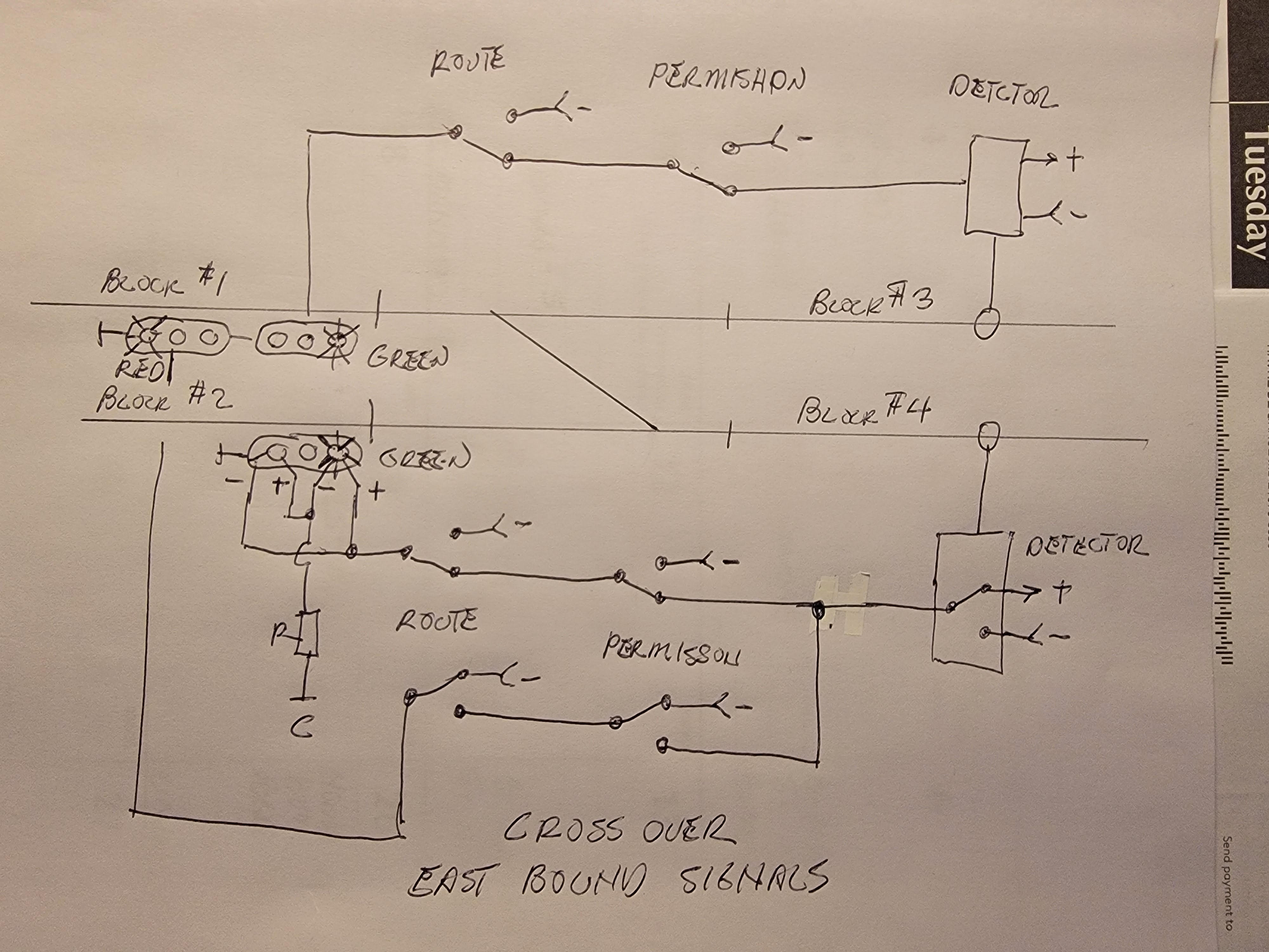
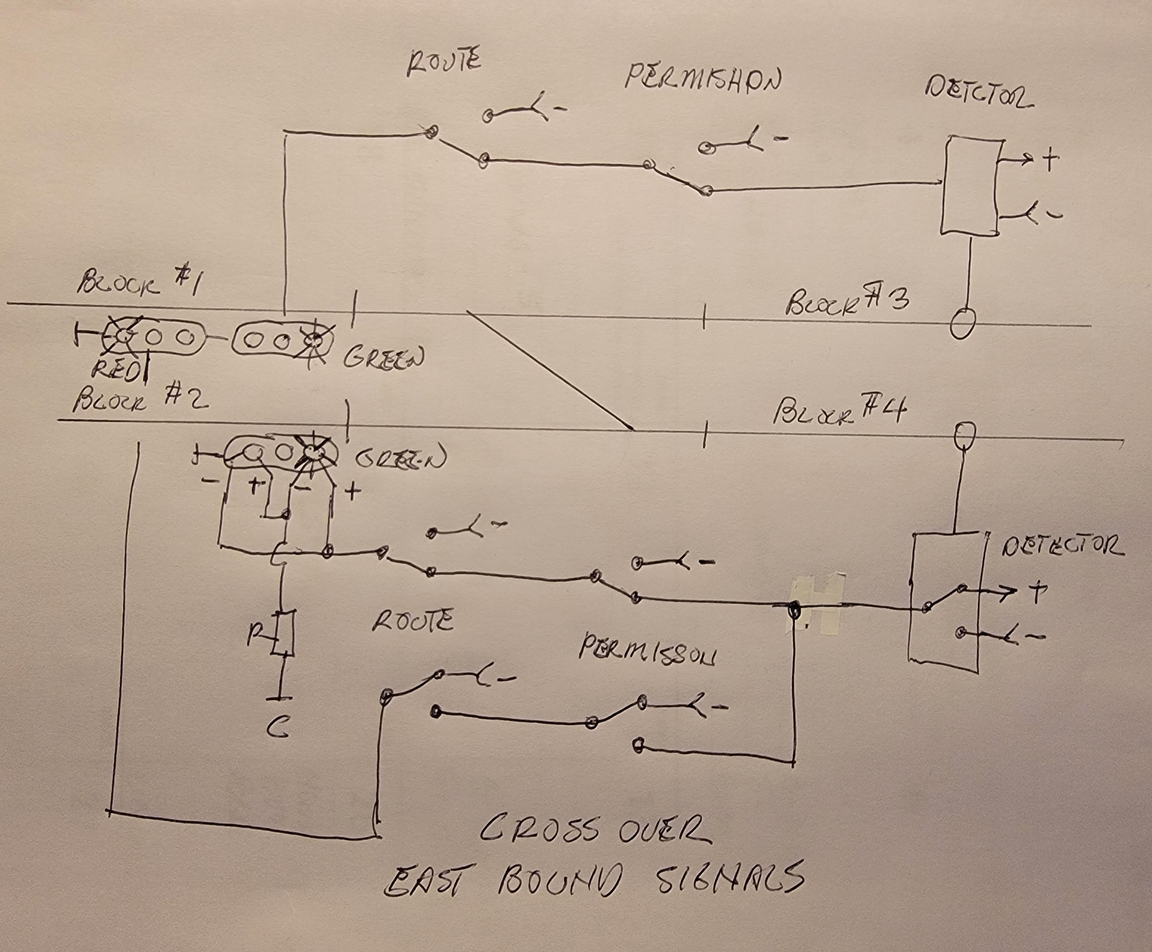
added Features section

diff --git a/Projects/Sheldon/index.html b/Projects/Sheldon/index.html
@@ -47,14 +47,15 @@
 
     <ol>
       <li> throttle assignment using push button at every block
-      <li> staggering regquired gaps stop trains in blocks
+      <li> staggering required gaps stop trains in blocks
             with mis-matched throttle assignments
       <li> throttles generate high frequency signal supporting
                 inductive block detection
       <li> push button turnout alignment support Tortoise machines
       <li> signals determined by route, permission and occupancy
                 (no APPROACH logic)
-      <li> permission ??
+      <li> permission circuit results in STOP signal when
+            cab not selected for next block.  Also suppots CTC.
     </ol>
 </table>
 
@@ -64,25 +65,36 @@
 <!-- -----------------------------------------------------  ---------------- -->
 <hr>
 <a name=design></a>
-<h3> Design (how is does it) </h3>
-
-<!-- -----------------------------------------------------  ---------------- -->
-<a name=connectingThrottle></a>
-<h4> Connecting throttle</h4>
+<h3> Features (what is does) </h3>
 
 <a href=Images/michPnl.jpg>
    <img align=right width=500 src=Images/michPnl.jpg> </a>
 
-To connect a throttle to block, there are a push-button switches
-at the boundary of the block
-that connects the throttle using a relay and
-releasing other relays connecting a throttle to the block.
-The throttle will remain connected to that block until
-another throttle is selected or the <i>reset</i> button is pressed.
+Panels have lighted push buttons to select throttle/cab for blocks,
+and releasing other cabs.
+A reset buttons allows deselecting all cabs.
 
 <p>
-These push-buttons switches can be wired in parallel
-at a dispatcher panel allowing for remote throttle assignments.
+Push button switches also route turnouts.
+
+<p>
+Signals indicate STOP, CLEAR or MEDIUM CLEAR for diverging route
+based on
+<ul>
+  <li> turnout,
+  <li> block occupancy and
+  <li> permission that the same cab is selected for next block.
+</ul>
+
+<p>
+At least in yards,
+stagged gaps by the length of a loco stop a loco
+when the same cab is not selected for next block.
+
+<!-- -----------------------------------------------------  ---------------- -->
+<hr>
+<a name=design></a>
+<h3> Design (how is does it) </h3>
 
 <!-- -----------------------------------------------------  ---------------- -->
 <hr>
@@ -224,7 +236,7 @@ The red LED is active by with a negative "(-)" voltage.
 
 <p>
 The diagrams illustrate the logic driving the signals,
-essentually the ORing of three conditions.
+essentially the ORing of three conditions.
 A <i>NOT</i> condition closes a contact to "(-)" voltage.
 
 <p>
@@ -276,18 +288,22 @@ An active block detector output results in a STOP signal.
 
 <table width=100%> <tr><td> </table>
 <!-- -----------------------------------------------------  ---------------- -->
+<hr>
+<h4> Detectors </h4>
+
 <a name=detectors></a>
 <img align=left width=150 src=Images/Trak-DT-Basic-Current-Detector-365.jpg>
 
-<h4> Detectors </h4>
-
-Inductive coupling circuits are used to detect
-a higher frequency AC signal generated by each throttle.
+Inductive detectors will detect
+a higher frequency signal gererated by a DC throttle
+when there is a conductive path (e.g. a motor, lamp, resistor)
+between the rails of a block.
 
 <p>
 <a href=https://www.dallee.com/Trak-DT-Basic-Current-Detector-DO-NOT-ORDER-out-of-stock--365>
 Trak-DT - Basic current Detector</a>
 
+<table width=100%> <tr><td> </table>
 <!-- -----------------------------------------------------  ---------------- -->
 <hr>
 <a name=permission></a>
@@ -342,7 +358,7 @@ Virtually all control wiring is done with multi conductor cable like CAT5, label
 
 The track diagram shows a turnout and track leading to different destinations,
 not a siding.
-The blocks are labled B1, B2 and B4.
+The blocks are labeled B1, B2 and B4.
 Two eastbound signals indicate STOP, CLEAR and MEDIUM-CLEAR
 for the diverging route to B4;
 Westbound signals simply indicate STOP or CLEAR.
@@ -361,7 +377,7 @@ illustrating how they combine to support signaling.
 
 <ul>
   <li> The turnout circuit controls the turnout and
-        provids input to the signal circuits.
+        provides input to the signal circuits.
   <li> Detectors provide occupancy inputs to the signals
   <li> Permission circuits verify that
         the same cab is selected on either side of the turnout route
@@ -522,17 +538,32 @@ This version of the ATLANTIC CENTRAL will require
 <p>
 How much power?
 <ul>
-  <li> 375 ma/relay
-  <li> 180 relays (??)
+  <li> 37.5 ma/relay (~660 Ω coil resistance)
+  <li> 180 relays (600 x 30%)
   <li> 20%-30% active
-  <li> 162W (600 x 0.3 x .0375 x 24)
+  <li> 6.75A (600 x 30% x .0375A)
+  <li> 162W  (6.75A x 24V)
+</ul>
 <p>
-Of course there are about 28 detectors, 600 LED push buttons (about 30% lit at any given time), and about 200 LED panel lights. The detectors draw about 45 mA when activated.
-<p>
-The dispatchers panel requires no additional relay hardware - just wire, buttons, LED's and resistors. All just a duplicate of info and controls from the local panels.
+
+<ul>
+  <li> 1.3A - 28 detectors (45ma),
+  <li> 1.8A - 600 LED push buttons (about 30% lit at any given time), and
+  <li> 0.6A - 200 panel LED (~30%)
+  <li> 3.7A - Total
+</ul>
+
+The dispatchers panel requires no additional relay hardware
+- just wire, buttons, LEDs and resistors.
+All just a duplicate of info and controls from the local panels.
+
 <p>
 Dollar cost average purchase price of relays over the 20 year history of the system and its development - Less that $2 each.
 
+<p>
+$3.90/80 - 
+<a href=https://www.digikey.com/en/products/detail/picker-components/PC118-4C-P-24A-X/12548893?gclsrc=aw.ds&gad_source=1&gad_campaignid=20243136172&gbraid=0AAAAADrbLliZiCrl6hqJBIzBNlEDIPphk&gclid=CjwKCAiAuIDJBhBoEiwAxhgyFo4-ziHD_ROWOqwy2RDH38ibVJ3Az91f5ir2WtEawC_Ap_IenoM4exoCdgEQAvD_BwE>
+PC118-4C-P-24A-X 4PDT 24V relay</a>
 
 <p align=right>
 <i>November 2025</i>
